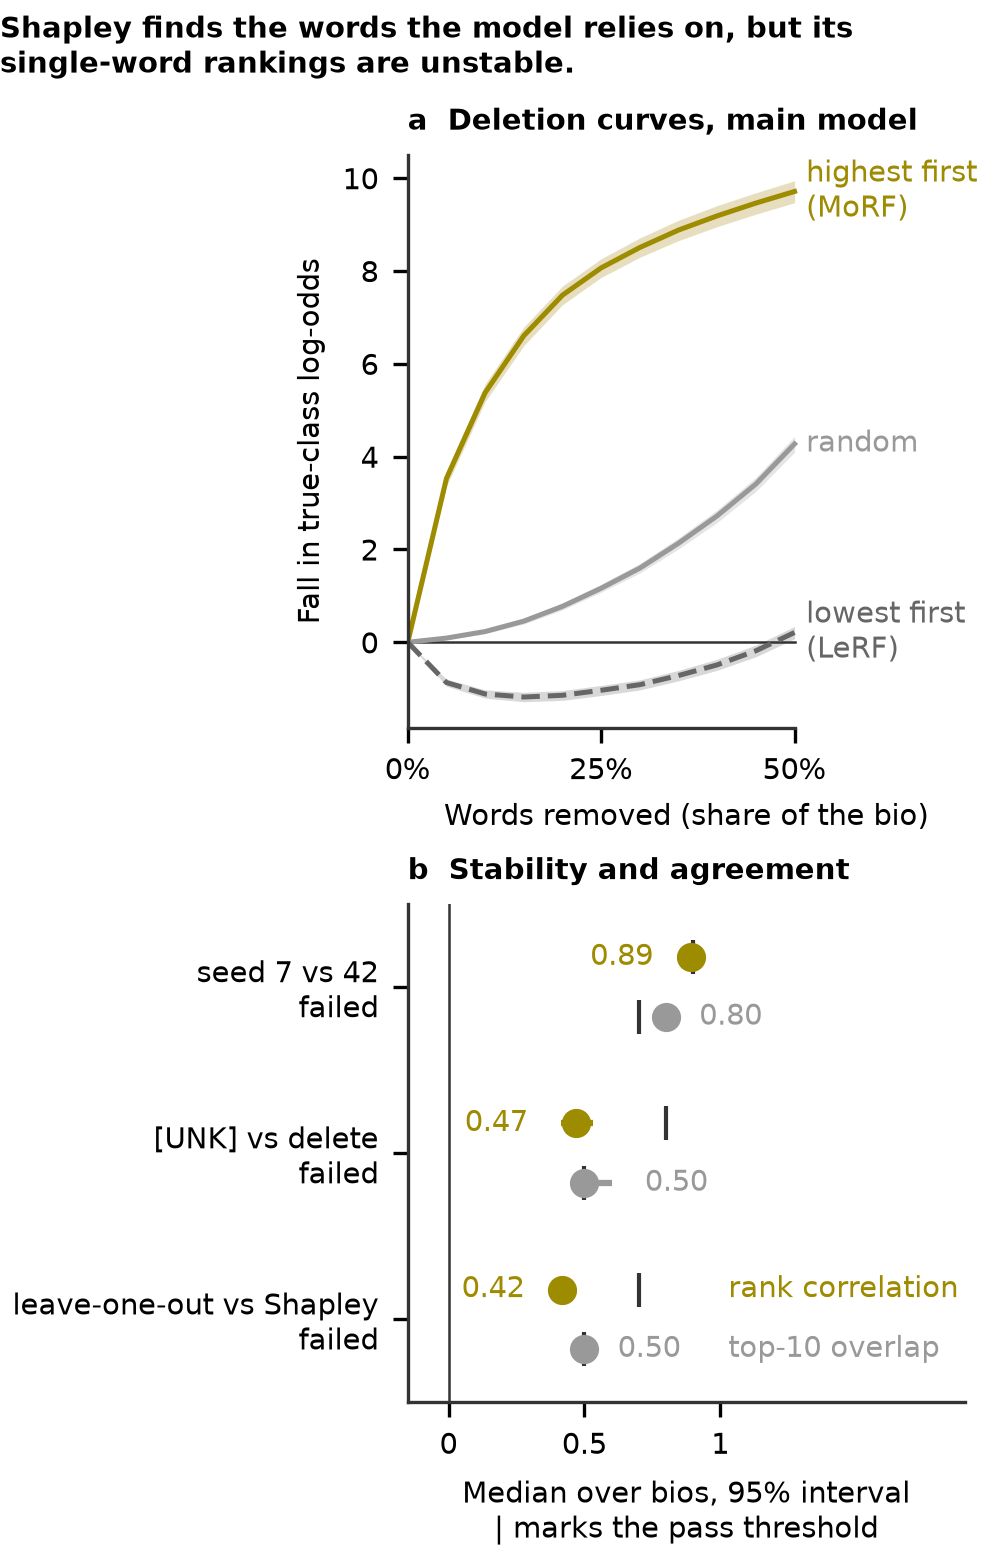
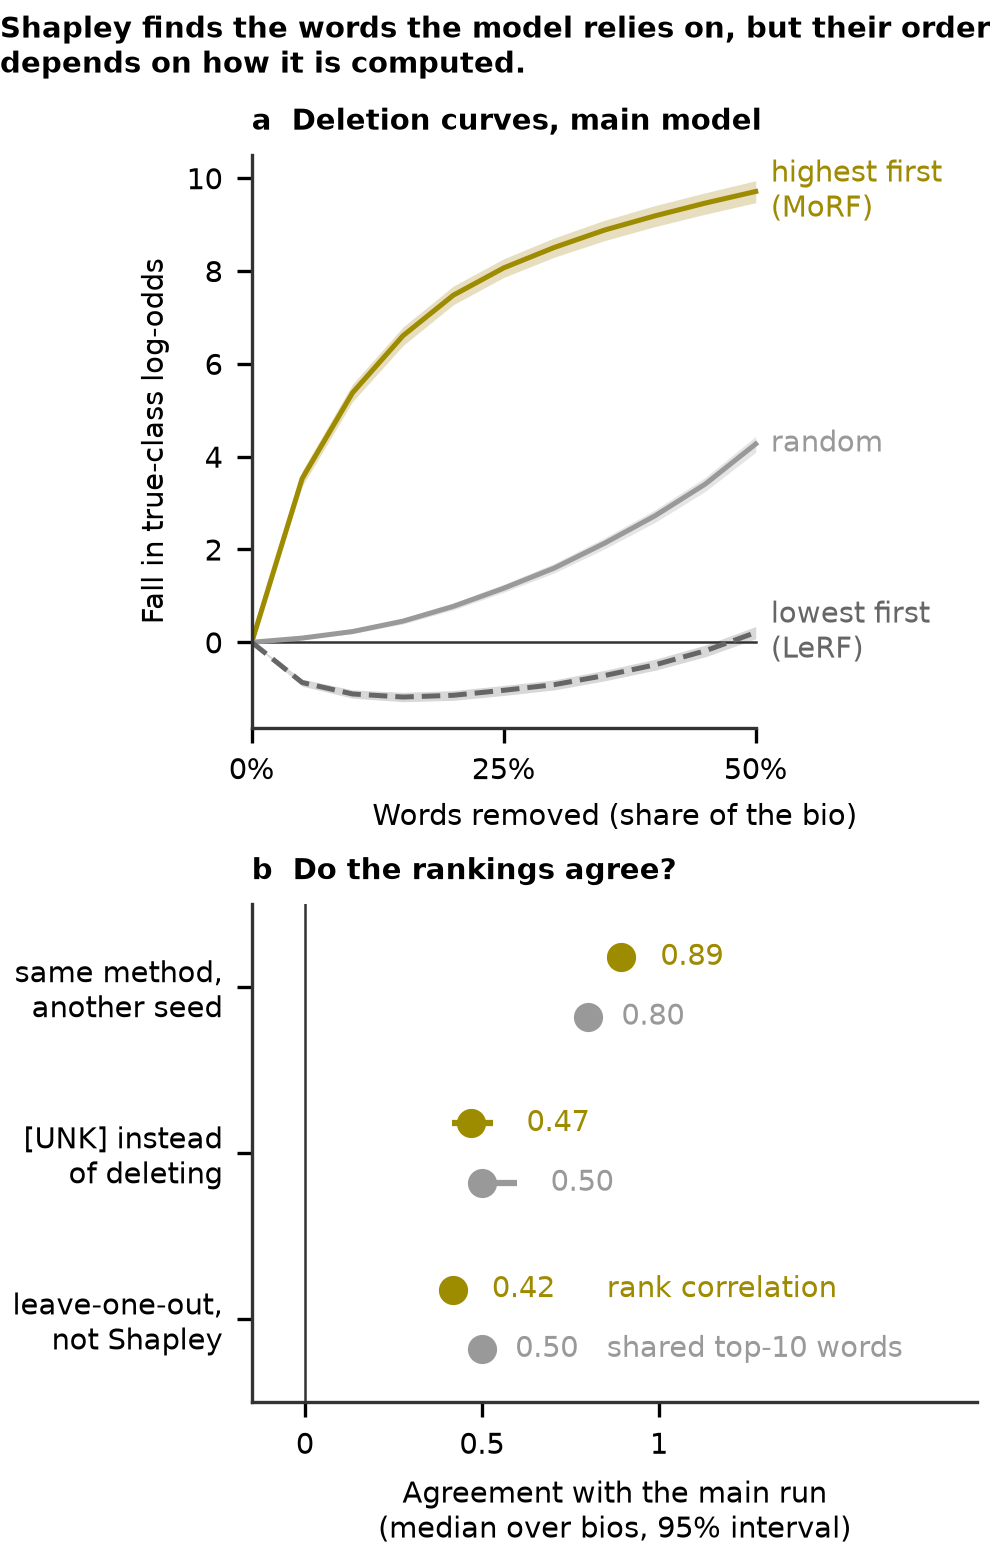
feat: F5 panel b says what each check changes, without pass marks or thresholds; the title compares other ways of computing with the noise of a rerun; figure files and deuteranopia check

diff --git a/scripts/figure_f5.py b/scripts/figure_f5.py
@@ -4,10 +4,11 @@ Panel a: the main model's deletion curves from `results/deletion_curves.csv`: th
 log-odds of the true occupation as words are removed most important first (MoRF, highlight), at
 random (grey, with its 95% interval over bios) and least important first (LeRF). Panel b: the
 median Spearman correlation and the median top-10 overlap, with 95% bootstrap intervals, of the
-three checks in `results/stability.json`, sorted by the correlation, each marked passed or failed,
-with a mark at each measure's pass threshold.
-The title states the finding from the pass flags of `results/deletion_areas.json` and
-`results/stability.json`; the numbers are in the panels.
+three checks in `results/stability.json`, sorted by the correlation. Each row says what changed
+from the main run (Shapley, delete removal, seed 42).
+The title states the finding: whether the deletion check of `results/deletion_areas.json` holds,
+and whether another way of computing the values moves the ranking further than a rerun with
+another seed does (their correlation intervals do not overlap). The numbers are in the panels.
 """
 
 import json
@@ -27,7 +28,7 @@ HEIGHT_INCHES = 5.2
 LAST_STEP = 0.5  # the deletion curves stop at half of the words
 LABEL_ROOM = 0.22  # room right of the last step for the curve labels, in fractions of the bio
 LABEL_GAP = 0.13  # least distance between curve labels, as a share of the y range
-NAME_X = 1.03  # the two measures are named right of every dot and mark
+NAME_OFFSET_PT = 30  # the measure names sit this far right of the last row's intervals
 LABEL_OFFSET_PT = 8  # gap between a dot and its value, in points
 OFFSET = 0.18  # distance of each dot from the row's centre line
 CURVES = (
@@ -36,30 +37,28 @@ CURVES = (
     ("lerf", LERF, "--", "lowest first\n(LeRF)"),
 )
 CHECK_NAMES = {
-    "seed": "seed 7 vs 42",
-    "removal": "[UNK] vs delete",
-    "method": "leave-one-out vs Shapley",
+    "seed": "same method,\nanother seed",
+    "removal": "[UNK] instead\nof deleting",
+    "method": "leave-one-out,\nnot Shapley",
 }
+OTHER_WAYS = ("removal", "method")  # compared with the seed check, the noise of a rerun
 
 
 def title(areas: dict, stability: dict) -> str:
-    """The finding: whether the top-ranked words matter to the model, and whether the rankings of
-    single words are stable. The numbers are in the panels."""
+    """The finding: whether the top-ranked words matter to the model, and whether computing the
+    values another way changes their order more than rerunning with another seed does."""
     deletion_passed = areas["screeners"][SCREENER]["passed"]
-    flags = [check["passed"] for check in stability["checks"].values()]
+    checks = stability["checks"]
+    rerun_low = checks["seed"]["spearman"]["median_ci"][0]
+    depends = any(checks[name]["spearman"]["median_ci"][1] < rerun_low for name in OTHER_WAYS)
     lead = (
         "Shapley finds the words the model relies on"
         if deletion_passed
         else "Shapley's top words matter no more than random ones"
     )
-    joiner = "but" if deletion_passed and not all(flags) else "and"
-    if all(flags):
-        rankings = "its single-word rankings hold up"
-    elif not any(flags):
-        rankings = "its single-word rankings are unstable"
-    else:
-        rankings = f"its single-word rankings hold up in {sum(flags)} of {len(flags)} checks"
-    return f"{lead}, {joiner} {rankings}."
+    joiner = "but" if deletion_passed and depends else "and"
+    order = "their order depends" if depends else "their order barely depends"
+    return f"{lead}, {joiner} {order} on how it is computed."
 
 
 def _spread(positions: list[float], gap: float) -> list[float]:
@@ -109,40 +108,44 @@ def _agreement_panel(ax, stability: dict) -> None:
     ax.axvline(0, color=DARK, lw=0.6)
     for metric, colour, shift, label in (
         ("spearman", HIGHLIGHT, -OFFSET, "rank correlation"),
-        ("top10_overlap", NEUTRAL, OFFSET, "top-10 overlap"),
+        ("top10_overlap", NEUTRAL, OFFSET, "shared top-10 words"),
     ):
         ys = [row + shift for row in rows]
         values = [checks[name][metric]["median"] for name in names]
         bounds = [checks[name][metric]["median_ci"] for name in names]
         ax.hlines(ys, [b[0] for b in bounds], [b[1] for b in bounds], colors=colour)
         ax.scatter(values, ys, c=colour, zorder=3)
-        thresholds = [checks[name]["thresholds"][f"median_{metric}"] for name in names]
-        ax.plot(thresholds, ys, ls="none", marker="|", color=DARK, markersize=8, markeredgewidth=1)
-        for y, value, bound, threshold in zip(ys, values, bounds, thresholds, strict=True):
-            below = value < threshold  # the mark is to the right of the dot, so the value goes left
+        for y, value, bound in zip(ys, values, bounds, strict=True):
             ax.annotate(
                 f"{value:.2f}",
-                (min(value, bound[0]) if below else max(value, bound[1]), y),
-                xytext=(-LABEL_OFFSET_PT if below else LABEL_OFFSET_PT, 0),
+                (max(value, bound[1]), y),
+                xytext=(LABEL_OFFSET_PT, 0),
                 textcoords="offset points",
                 color=colour,
                 va="center",
-                ha="right" if below else "left",
+                ha="left",
             )
-        ax.text(NAME_X, ys[-1], label, color=colour, va="center", ha="left")
+        last_high = max(
+            max(checks[names[-1]][m]["median_ci"][1], checks[names[-1]][m]["median"])
+            for m in ("spearman", "top10_overlap")
+        )
+        ax.annotate(
+            label,
+            (last_high, ys[-1]),
+            xytext=(NAME_OFFSET_PT, 0),
+            textcoords="offset points",
+            color=colour,
+            va="center",
+            ha="left",
+        )
     ax.set_yticks(rows)
-    ax.set_yticklabels(
-        [
-            f"{CHECK_NAMES[name]}\n{'passed' if checks[name]['passed'] else 'failed'}"
-            for name in names
-        ]
-    )
+    ax.set_yticklabels([CHECK_NAMES[name] for name in names])
     ax.set_ylim(len(names) - 0.5, -0.5)
     ax.set_xlim(min(0, min(checks[n]["spearman"]["median_ci"][0] for n in names)) - 0.15, 1.9)
     ax.set_xticks([0, 0.5, 1])
     ax.xaxis.set_major_formatter(lambda value, _: f"{value:g}")
-    ax.set_xlabel("Median over bios, 95% interval\n| marks the pass threshold")
-    ax.set_title("b  Stability and agreement", loc="left", fontweight="bold")
+    ax.set_xlabel("Agreement with the main run\n(median over bios, 95% interval)")
+    ax.set_title("b  Do the rankings agree?", loc="left", fontweight="bold")
 
 
 def build(curves: pd.DataFrame, areas: dict, stability: dict):

diff --git a/tests/test_figure_f5.py b/tests/test_figure_f5.py
@@ -145,7 +145,12 @@ def _set_spearman(stability, name, low, high):
         (True, (0.41, 0.53), (0.40, 0.43), f"{PASSED_DELETION}, but {DEPENDS}."),
         (True, (0.85, 0.90), (0.40, 0.43), f"{PASSED_DELETION}, but {DEPENDS}."),
         (True, (0.85, 0.90), (0.80, 0.95), f"{PASSED_DELETION}, and {STEADY}."),
-        (True, (0.70, 0.84), (0.84, 0.90), f"{PASSED_DELETION}, but {DEPENDS}."),
+        (
+            True,
+            (0.70, 0.84),
+            (0.84, 0.90),
+            f"{PASSED_DELETION}, and {STEADY}.",
+        ),  # touching = overlap
         (False, (0.41, 0.53), (0.40, 0.43), f"{FAILED_DELETION}, and {DEPENDS}."),
         (False, (0.85, 0.90), (0.86, 0.95), f"{FAILED_DELETION}, and {STEADY}."),
     ],
@@ -225,7 +230,7 @@ def test_checks_are_rows_sorted_by_the_median_correlation_and_say_what_changed(f
     _, bottom = _axes(figure)
     labels = [t.get_text().replace("\n", " ") for t in bottom.get_yticklabels()]
     assert labels == [
-        "leave-one-out instead of Shapley",
+        "leave-one-out, not Shapley",
         "same method, another seed",
         "[UNK] instead of deleting",
     ]
@@ -364,13 +369,19 @@ def test_value_labels_stand_right_of_their_interval_and_clear_their_dots(
             assert box.x0 >= max(px + radius, high) + 2, label.get_text()
 
 
-def test_the_series_names_stand_right_of_every_value_label(figure):
+def test_the_series_names_stand_right_of_the_value_labels_of_their_row(figure):
     _, bottom = _axes(figure)
     names = [t for t in bottom.texts if t.get_text() in ("rank correlation", "shared top-10 words")]
     assert len(names) == 2
     values = [t for t in bottom.texts if re.fullmatch(r"\d\.\d\d", t.get_text())]
-    right_edge = max(t.get_window_extent().x1 for t in values)
-    assert all(t.get_window_extent().x0 > right_edge for t in names)
+    for name in names:
+        box = name.get_window_extent()
+        centre = box.get_points()[:, 1].mean()
+        same_row = [
+            v for v in values if abs(v.get_window_extent().get_points()[:, 1].mean() - centre) < 3
+        ]
+        assert same_row
+        assert all(box.x0 > v.get_window_extent().x1 for v in same_row)
 
 
 def test_no_pass_threshold_is_drawn(figure):
